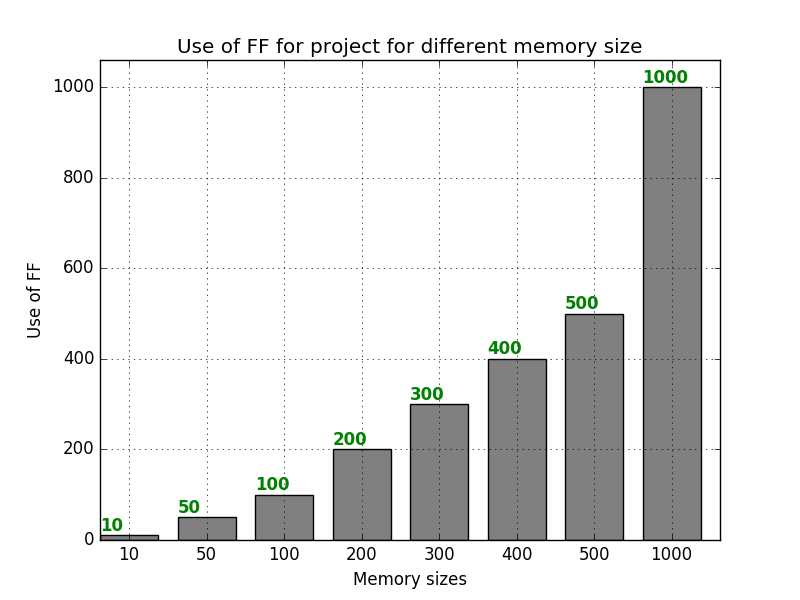
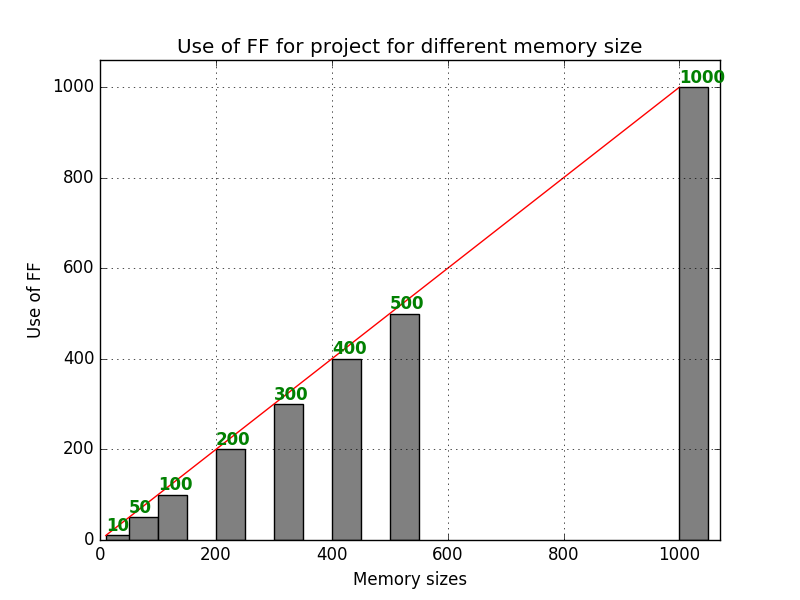
plots

diff --git a/seriaPomiarow/plots.py b/seriaPomiarow/plots.py
@@ -2,12 +2,15 @@
 
 
 import matplotlib.pyplot as plt
+import matplotlib.patches as mpatches
 import numpy as np
 
 X_number = [0,1,2,3,4,5,6,7,8,9]
 X_number = np.arange(len(X_number))
 memory_sizes_arr=[10, 50, 100, 200, 300, 400, 500, 1000]
 memory_sizes=np.arange(len(memory_sizes_arr))
+memory_sizes_np=np.array(memory_sizes_arr)
+# print(memory_sizes_np)
 lut=[
 [ 45, 45, 46, 49, 50, 48, 49, 51, 50, 50],
 [ 198 , 183 , 189 , 191 , 197 , 195 , 192 , 196 , 196 , 194],
@@ -26,7 +29,10 @@ ff_average=[10, 50, 100, 200, 300, 400, 500, 1000]
 ff_encoder=[370, 2000, 4090, 8300, 12400, 16793, 20975, 42141]
 ff_for_all_project=[470, 2500, 5090,10300, 15400,20793, 25975, 52141]
 
-
+percentage_usage_LUT=[0.06, 0.26,0.49, 0.89,1.41 , 3.17, 4.04,  8.11]
+percentage_usage_FF=[0.02, 0.11, 0.22 , 0.44,0.65, 0.88, 1.10, 2.21]
+lut_50_10=[193, 52, 51, 51, 48, 48, 47, 46, 44, 43]
+memory_sizes_50_10=[50,10,10,10,10,10,10,10,10,10]
 
 def bars_for_all_sizes_LUT():
     for i in xrange(len(lut)):
@@ -155,7 +161,7 @@ def bar_for_FFencder():
 
     ax.bar(memory_sizes, ff_encoder, width, color="purple")
     ax.axis([0, 8, 0, max(ff_encoder)+4000])
-    ax.set_xticks(memory_sizes + width/2)
+    ax.set_xticks(memory_sizes_np + 10)
     ax.set_xticklabels(memory_sizes_arr)
     for j, v in enumerate(ff_encoder):
         ax.text(j, v + 200, str(v), color='green', fontweight='bold')
@@ -171,19 +177,87 @@ def bar_for_FFencder():
 
 def bar_for_FF():  
     fig, ax = plt.subplots()    
-    width = 0.75 # the width of the bars 
+    width = 50 # the width of the bars 
       # the x locations for the groups
 
-    ax.bar(memory_sizes, ff_average, width, color="grey")
-    ax.axis([0, 8, 0, max(ff_average)+60])
-    ax.set_xticks(memory_sizes + width/2)
-    ax.set_xticklabels(memory_sizes_arr)
+    ax.bar(memory_sizes_np, ff_average, width, color="grey")
+    ax.axis([0, max(memory_sizes_arr)+70, 0, max(ff_average)+60])
+    # ax.set_xticks(memory_sizes + width/2)
+    # ax.set_xticklabels(memory_sizes_arr)
     for j, v in enumerate(ff_average):
-        ax.text(j, v + 10, str(v), color='green', fontweight='bold')
+        ax.text(memory_sizes_np[j], v + 10, str(v), color='green', fontweight='bold')
     plt.title("Use of FF for project for different memory size")
     plt.xlabel("Memory sizes")
     plt.ylabel('Use of FF')
     plt.grid(True)
+    
+    y=memory_sizes_np
+    plt.plot(memory_sizes_np,y,'-r')
     # plt.show()
+
     plt.savefig('FF_for_all_project.png')
-bar_for_FF()
+# bar_for_FF()
+
+def percentage_usage_of_FF():
+    bar_width=0.3
+    
+    FF=plt.bar(memory_sizes, percentage_usage_FF, width=bar_width, color='orange', label='FF', zorder=2)
+    # LUT=plt.bar(memory_sizes+bar_width, percentage_usage_LUT, width=bar_width,color='purple',label='LUT',zorder=2)
+    
+    plt.xlabel("Memory sizes")
+    plt.ylabel('Percentage use of FF')
+    plt.grid(axis='y')
+    plt.title("Percentage use of FF for project for different memory size")
+
+    plt.axis([-0.5, 8, 0, max(percentage_usage_FF)+0.3])
+    plt.xticks(memory_sizes+bar_width/2, memory_sizes_arr)
+
+    for rect in FF:
+        h = rect.get_height()
+        plt.text(rect.get_x()+rect.get_width()/1.5, h, "{}%".format(h),
+                ha='center', va='bottom',  fontweight='bold')
+    plt.savefig('FF_percentage_for_all_project.png')
+
+# percentage_usage_of_FF()
+
+
+def percentage_usage_of_LUT():
+    bar_width=0.3
+    
+    FF=plt.bar(memory_sizes, percentage_usage_LUT, width=bar_width, color='purple', label='LUT', zorder=2)
+    # LUT=plt.bar(memory_sizes+bar_width, percentage_usage_LUT, width=bar_width,color='purple',label='LUT',zorder=2)
+    
+    plt.xlabel("Memory sizes")
+    plt.ylabel('Percentage use of LUT')
+    plt.grid(axis='y')
+    plt.title("Percentage use of LUT for project for different memory size")
+
+    plt.axis([-0.5, 8, 0, max(percentage_usage_LUT)+0.6])
+    plt.xticks(memory_sizes+bar_width/2, memory_sizes_arr)
+
+    for rect in FF:
+        h = rect.get_height()
+        plt.text(rect.get_x()+rect.get_width()/1.5, h, "{}%".format(h),
+                ha='center', va='bottom',  fontweight='bold')
+    plt.savefig('LUT_percentage_for_all_project.png')
+    # plt.show()
+# percentage_usage_of_LUT()
+
+def bars_for_10_50_sizes_LUT():
+    fig, ax = plt.subplots()    
+    width = 0.75 # the width of the bars 
+      # the x locations for the groups
+    ax.bar(X_number, lut_50_10, width, color="blue")
+    ax.axis([0, 10, min(lut_50_10)-10, max(lut_50_10)+7])
+    ax.set_xticks(X_number + width/2)
+    ax.set_xticklabels(X_number)
+    for j, v in enumerate(lut_50_10):
+        ax.text(j+ width/4, v + .3, str(v), color='red', fontweight='bold')
+    plt.title("Memory with {} addresses".format(memory_sizes_50_10))
+    plt.xlabel("Number of 'don't care' bits")
+    plt.ylabel('Use of LUT')
+    plt.grid(True)
+    # plt.show()
+    plt.savefig('LUT_50_10.png')
+
+bars_for_10_50_sizes_LUT()
